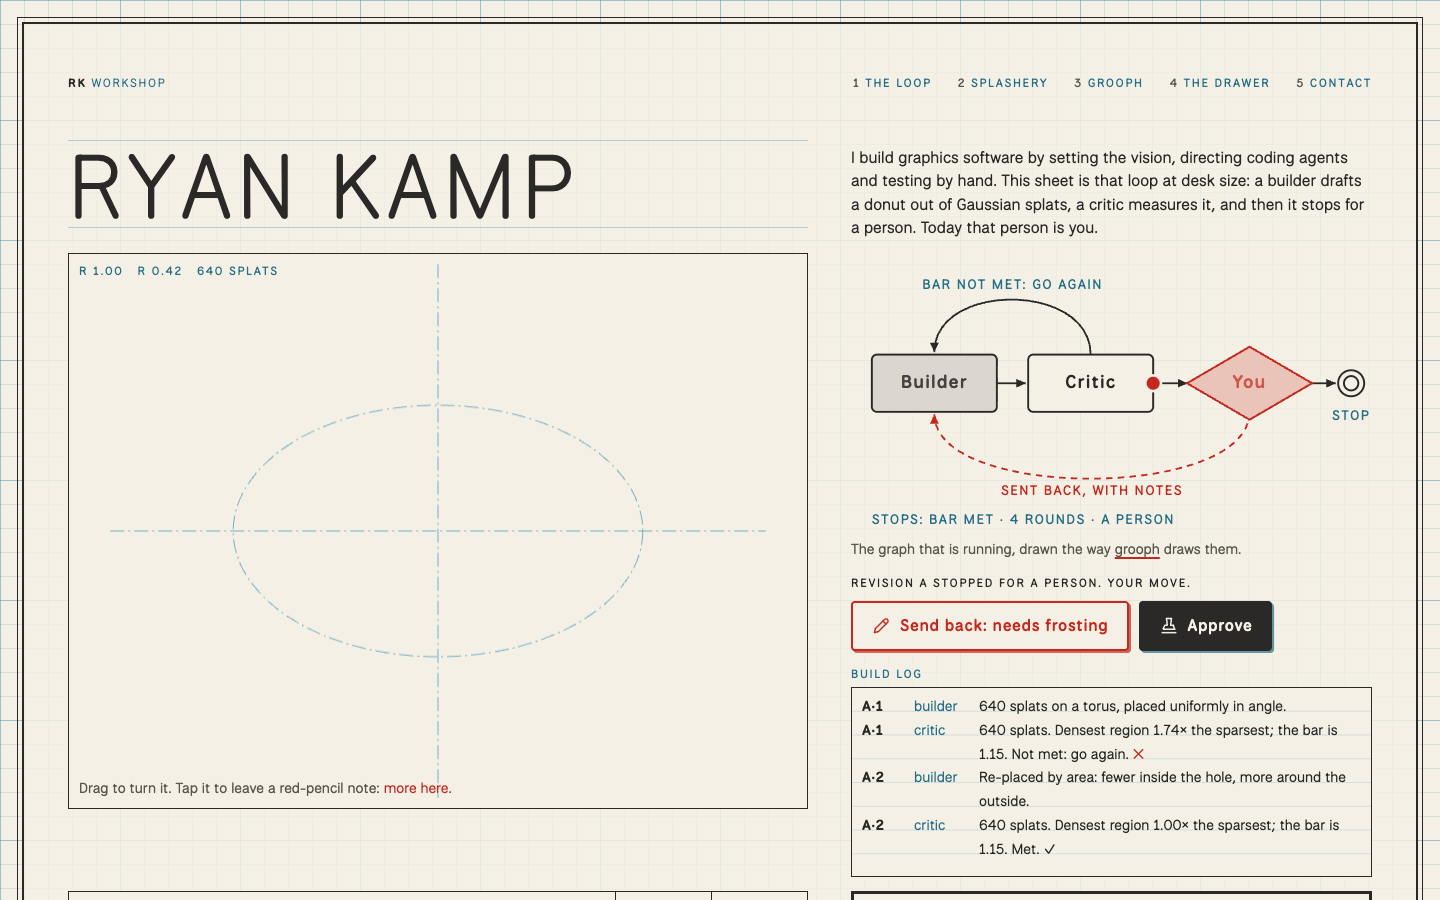
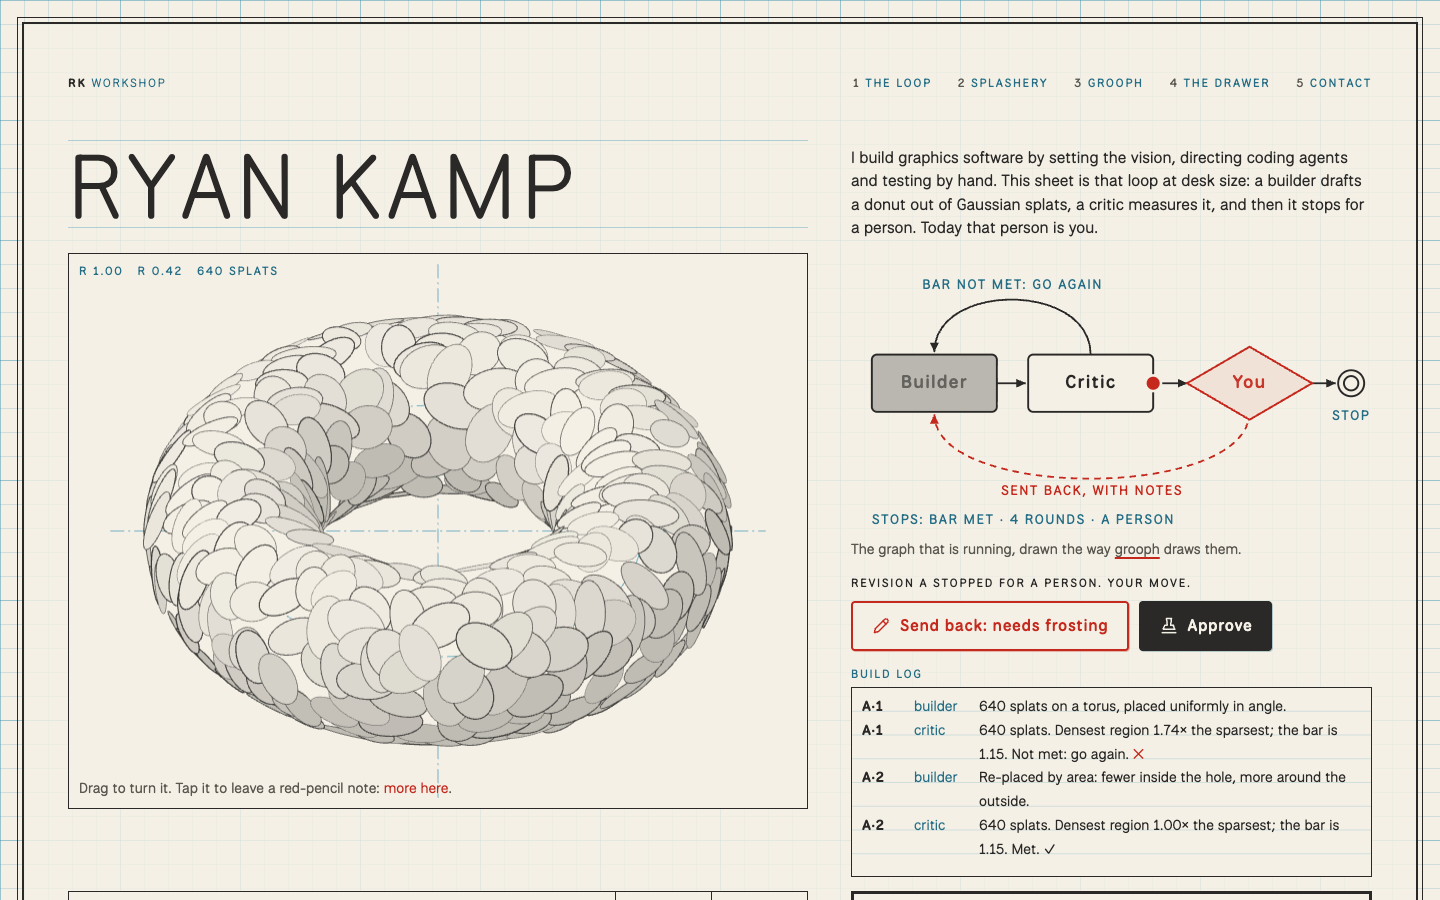
Workshop: draw on the timers' clock; fix phone overflow; add a screenshot

Changed region(s): [[0.0938, 0.3422, 0.5312, 0.84], [0.5938, 0.3733, 0.7188, 0.4667], [0.8125, 0.3733, 0.9062, 0.4667]]

diff --git a/concepts/workshop/main.js b/concepts/workshop/main.js
@@ -121,9 +121,10 @@ function makeBoard(canvas) {
     dirty = frac < 1 || !!poke;
   }
 
-  function frame(now) {
+  function frame() {
     requestAnimationFrame(frame);
     if (!visible) return;
+    const now = performance.now(); // the same clock the loop's timers use
     const dt = Math.min((now - lastFrame) / 1000, 0.05);
     lastFrame = now;
     if (!reduce.matches && !down && now - lastInput > 2600) { yaw += dt * 0.16; dirty = true; }
